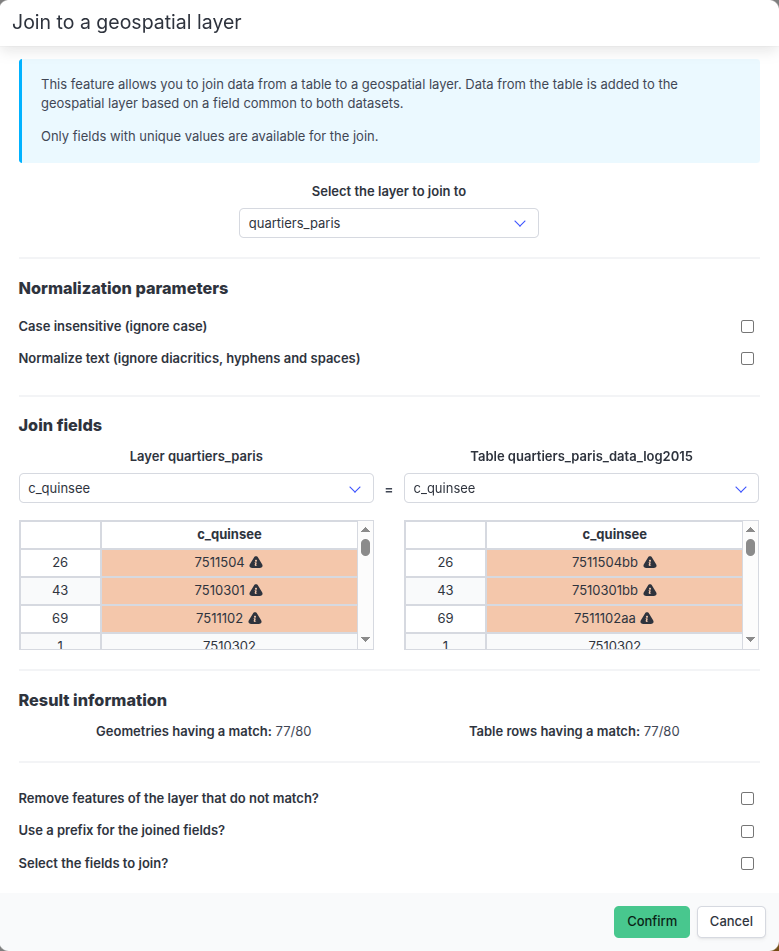
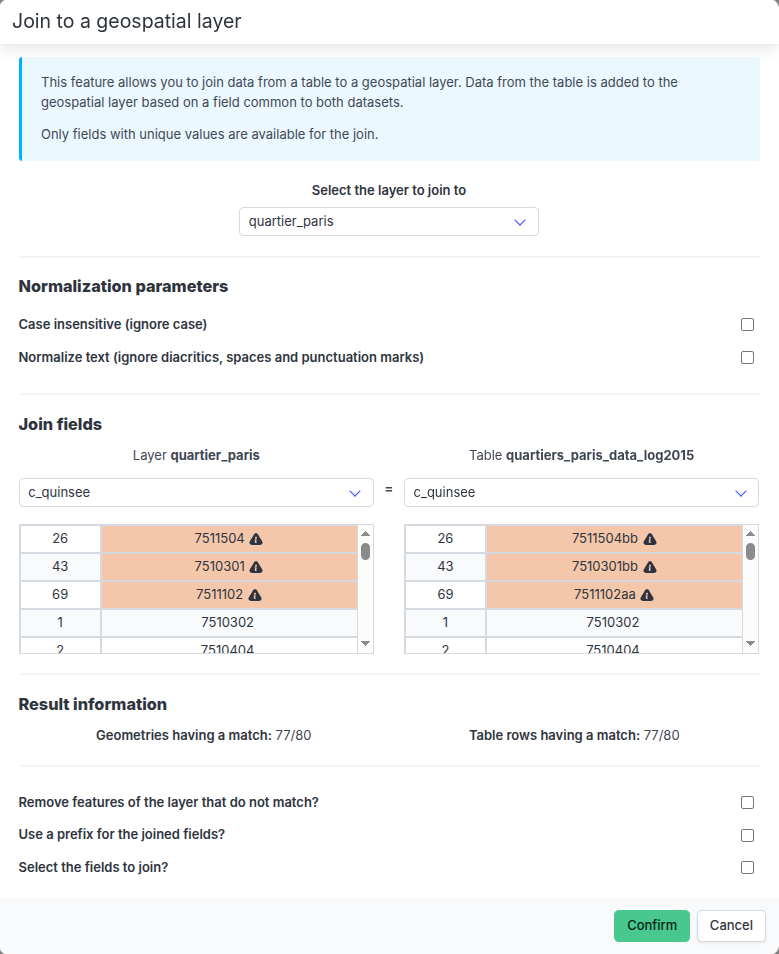
docs: improve join documentation

diff --git a/docs/join.md b/docs/join.md
@@ -77,19 +77,47 @@ Il est également possible de renseigner, de manière optionnelle, les paramètr
 - Non-prise en compte de la casse des valeurs d'identifiants,
 - Non-prise en compte des signes diacritiques, des espaces et des tirets dans les valeurs d'identifiants,
 
+<ZoomImg
+    src="/join-modal-before-selection.png"
+    alt="Fenêtre de jointure avant séléction des champs d'identifiants"
+    caption="Fenêtre de jointure avant séléction des champs d'identifiants"
+/>
+
 Sur la base de ces informations, les correspondances entre les valeurs d'identifiants des deux jeux de données sont établies.
+
+## Affichage des colonnes utilisées pour la jointure et des résultats
+
+Un tableau de données est affiché sous le menu déroulant du champ d'identifiant de la couche géographique et du jeu de données tabulaire.
+
+Ce tableau affiche le numéro de ligne et la valeur d'identifiant des deux colonnes utilisées pour la jointure.
+
+Les entrées avec des correspondances uniques sont affichées sans couleurs (il s'agit des correspondances valides pour la jointure).
+
+Si des entrées ont des correspondances multiples, elles sont affichées en rouge (ce qui empêche la jointure de s'effectuer).
+Si des entrées n'ont pas de correspondances ou sont vides, elles sont affichées en orange.
+Les entrées affichées en rouge ou en orange sont remontées en haut du tableau pour faciliter leur identification.
+
+### Résultats
 
 Si aucune correspondances n'est trouvée (ou si des correspondances multiples sont trouvées,
 c'est-à-dire si plusieurs valeurs d'identifiants du jeu de données géographique correspondent
 à une même valeur d'identifiant du jeu de données tabulaire ou inversement),
 il n'est pas possible de réaliser la jointure.
 
-Si une ou plusieurs correspondances sont trouvées, les données tabulaires sont ajoutées aux entités correspondantes de la couche géographique,
+<ZoomImg
+    src="/join-modal-no-match.png"
+    alt="Fenêtre de jointure (aucune correspondance trouvée)"
+    caption="Fenêtre de jointure (aucune correspondance trouvée)"
+/>
+
+Si une ou plusieurs correspondances sont trouvées, les données tabulaires peuvent être ajoutées aux entités correspondantes de la couche géographique,
 sur les bases des options suivantes :
 
 - Possibilité de sélectionner les colonnes à ajouter à la couche géographique,
 - Possibilité d'ajouter un préfixe aux colonnes ajoutées,
 - Possibilité de supprimer les entités de la couche géographique pour lesquelles aucune correspondance n'a été trouvée.
+
+Une section de résumé affiche le nombre de correspondances trouvées dans la couches géographique et dans le jeu de données tabulaire (ainsi que le nombre d'entrées vides le cas échéant).
 
 <ZoomImg
     src="/join-modal.png"

diff --git a/docs/en/join.md b/docs/en/join.md
@@ -76,17 +76,45 @@ It is also possible to set the following optional parameters:
 - Non-case-sensitive identifier values,
 - Disregard diacritics, spaces and hyphens in identifier values,
 
+<ZoomImg
+    src="/join-modal-before-selection.png"
+    alt="Join modal window before selecting identifier fields"
+    caption="Join modal window before selecting identifier fields"
+/>
+
 Based on this information, the correspondences between the identifier values of the two datasets are established.
+
+## Displaying the columns used for the join and results
+
+A data table is displayed under the dropdown menu of the geographic layer and tabular dataset identifier fields.
+
+This table displays the row number and identifier value of the two columns used for the join.
+
+Entries with unique matches are displayed without colors (these are valid matches for the join).
+
+If entries have multiple matches, they are displayed in red (which prevents the join from being performed).
+If entries have no matches or are empty, they are displayed in orange.
+Entries displayed in red or orange are moved to the top of the table for easing their identification.
+
+### Results
 
 If no matches are found (or if multiple matches are found, i.e. if several ID values in the geographic dataset match
 the same ID value in the tabular dataset, or vice versa), the join cannot be performed.
 
-If one or more correspondences are found, the tabular data is added to the corresponding entities of the geographical
+<ZoomImg
+    src="/join-modal.png"
+    alt="Join modal window (no matches found)"
+    caption="Join modal window (no matches found)"
+/>
+
+If one or more matches are found, the tabular data can be added to the corresponding entities of the geographical
 layer, based on the following options:
 
 - Possibility to select the columns to add to the geographical layer,
 - Possibility to add a prefix to the added columns,
 - Possibility to remove the entities from the geographical layer for which no correspondence has been found.
+
+A summary section displays the number of matches found in the geographic layer and in the tabular dataset (as well as the number of empty entries, if any).
 
 <ZoomImg
     src="/join-modal.png"
